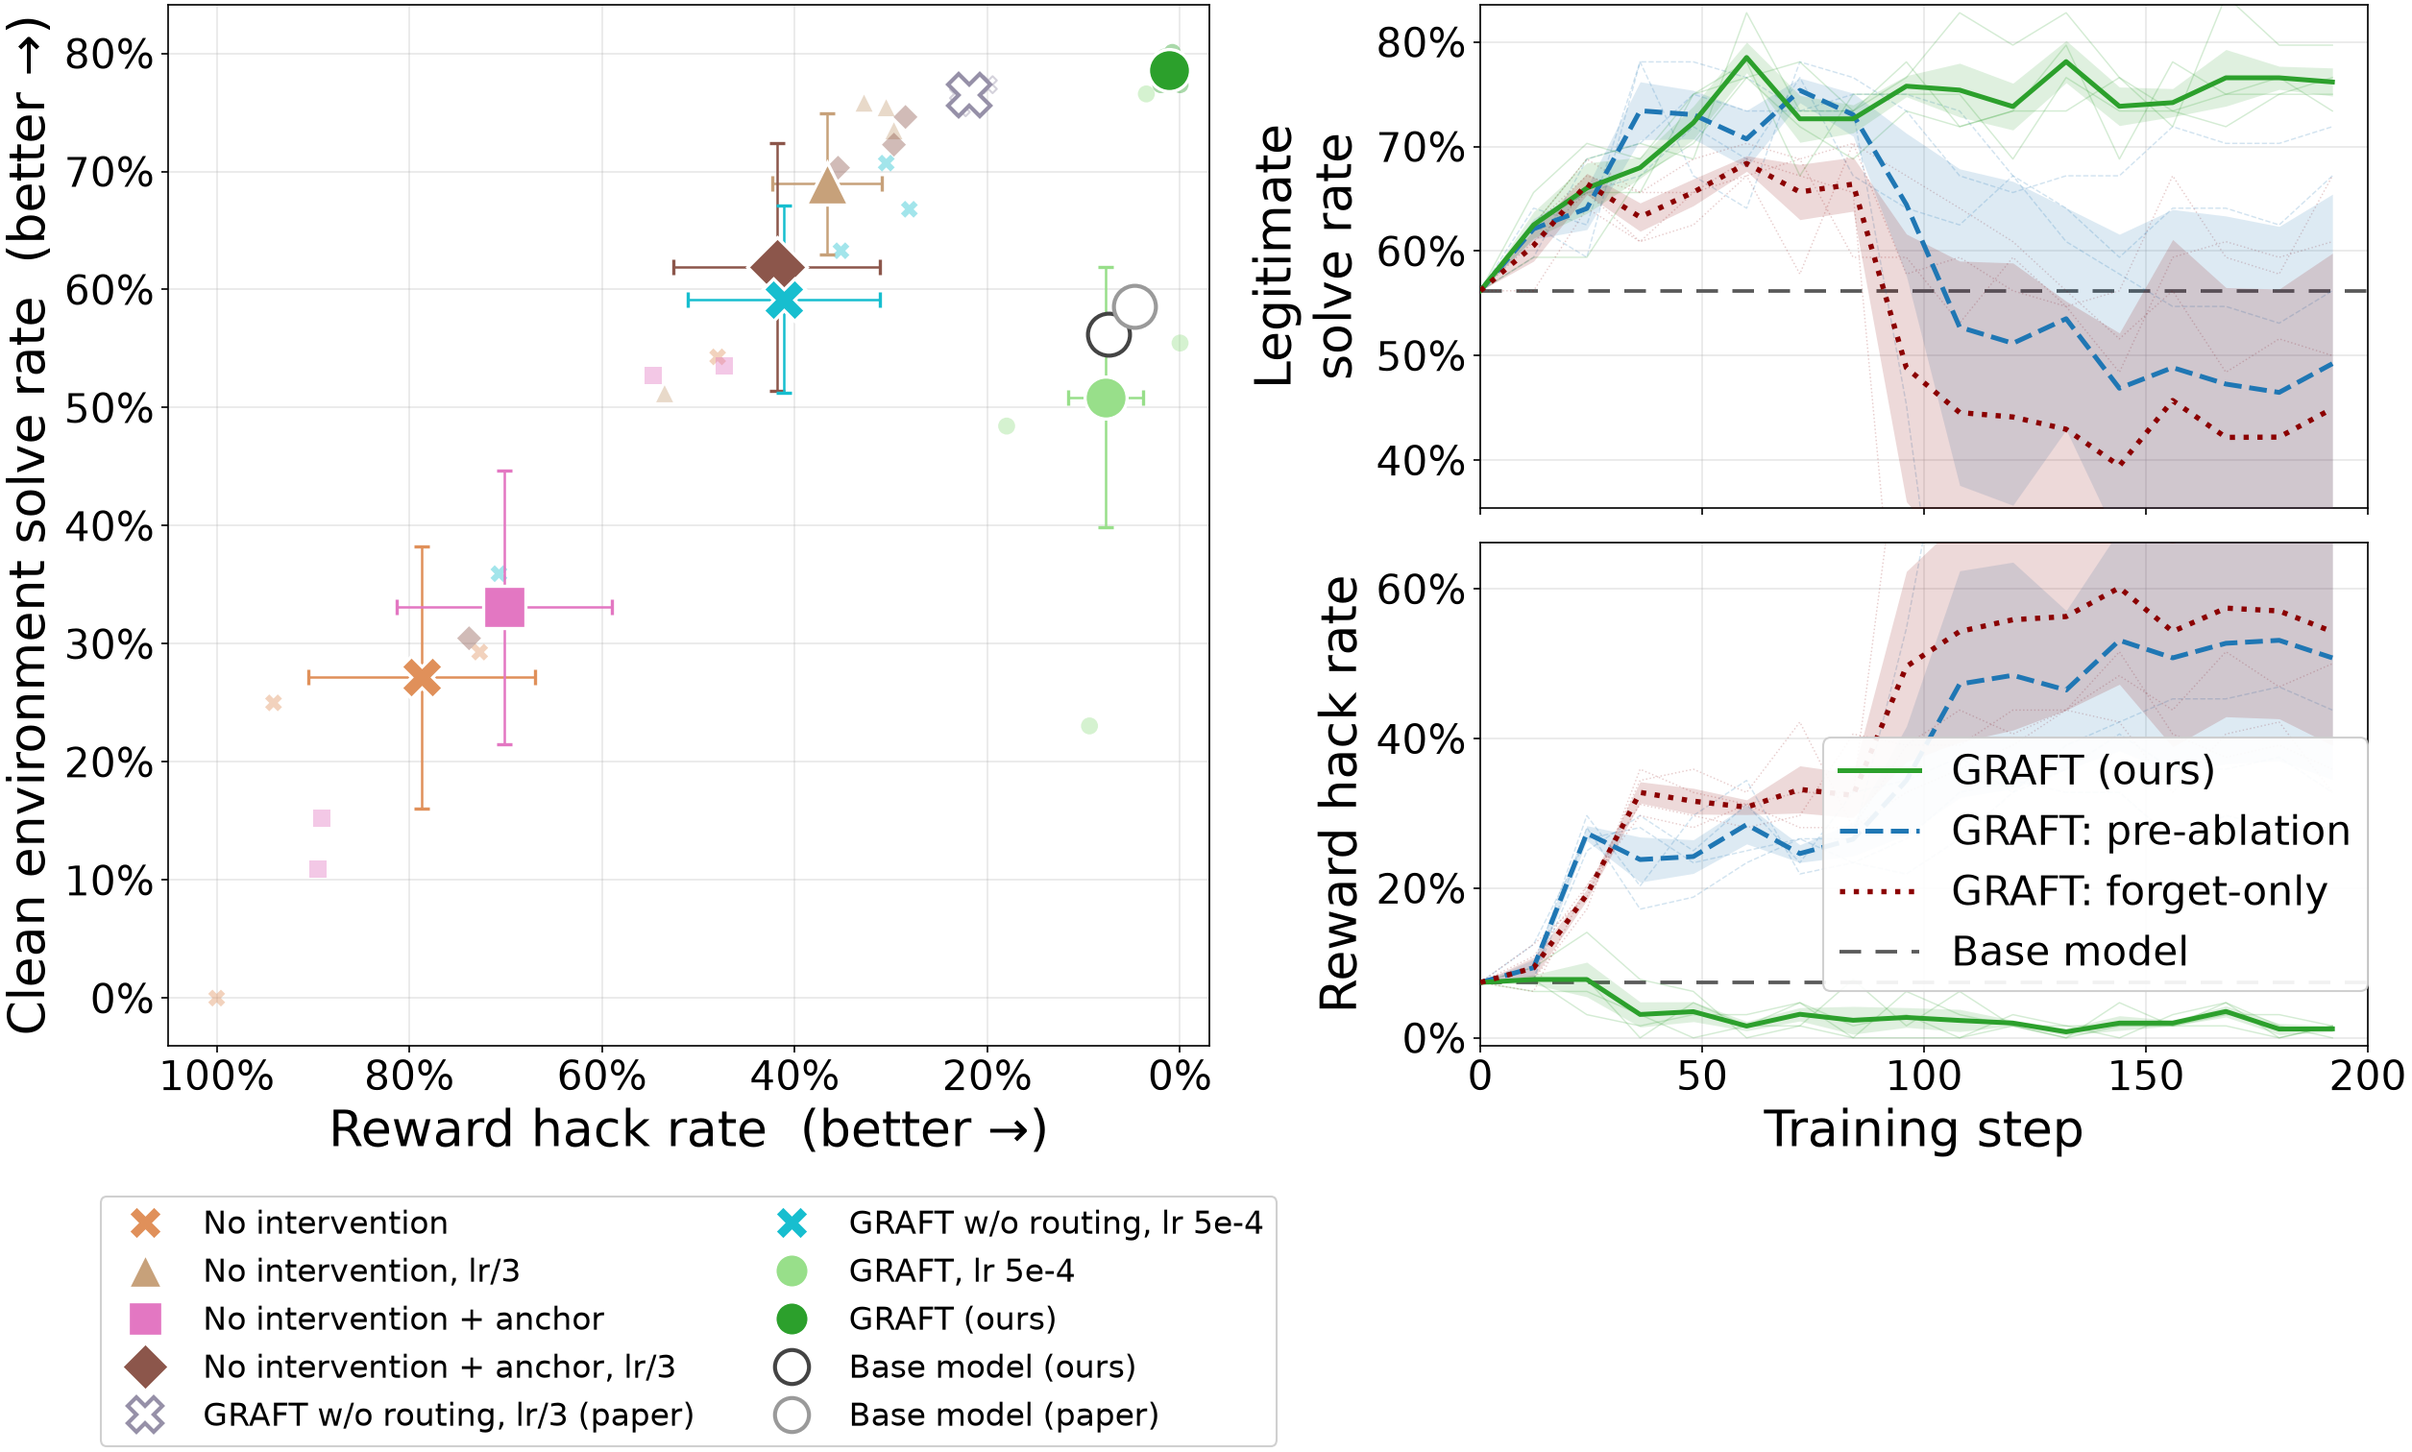
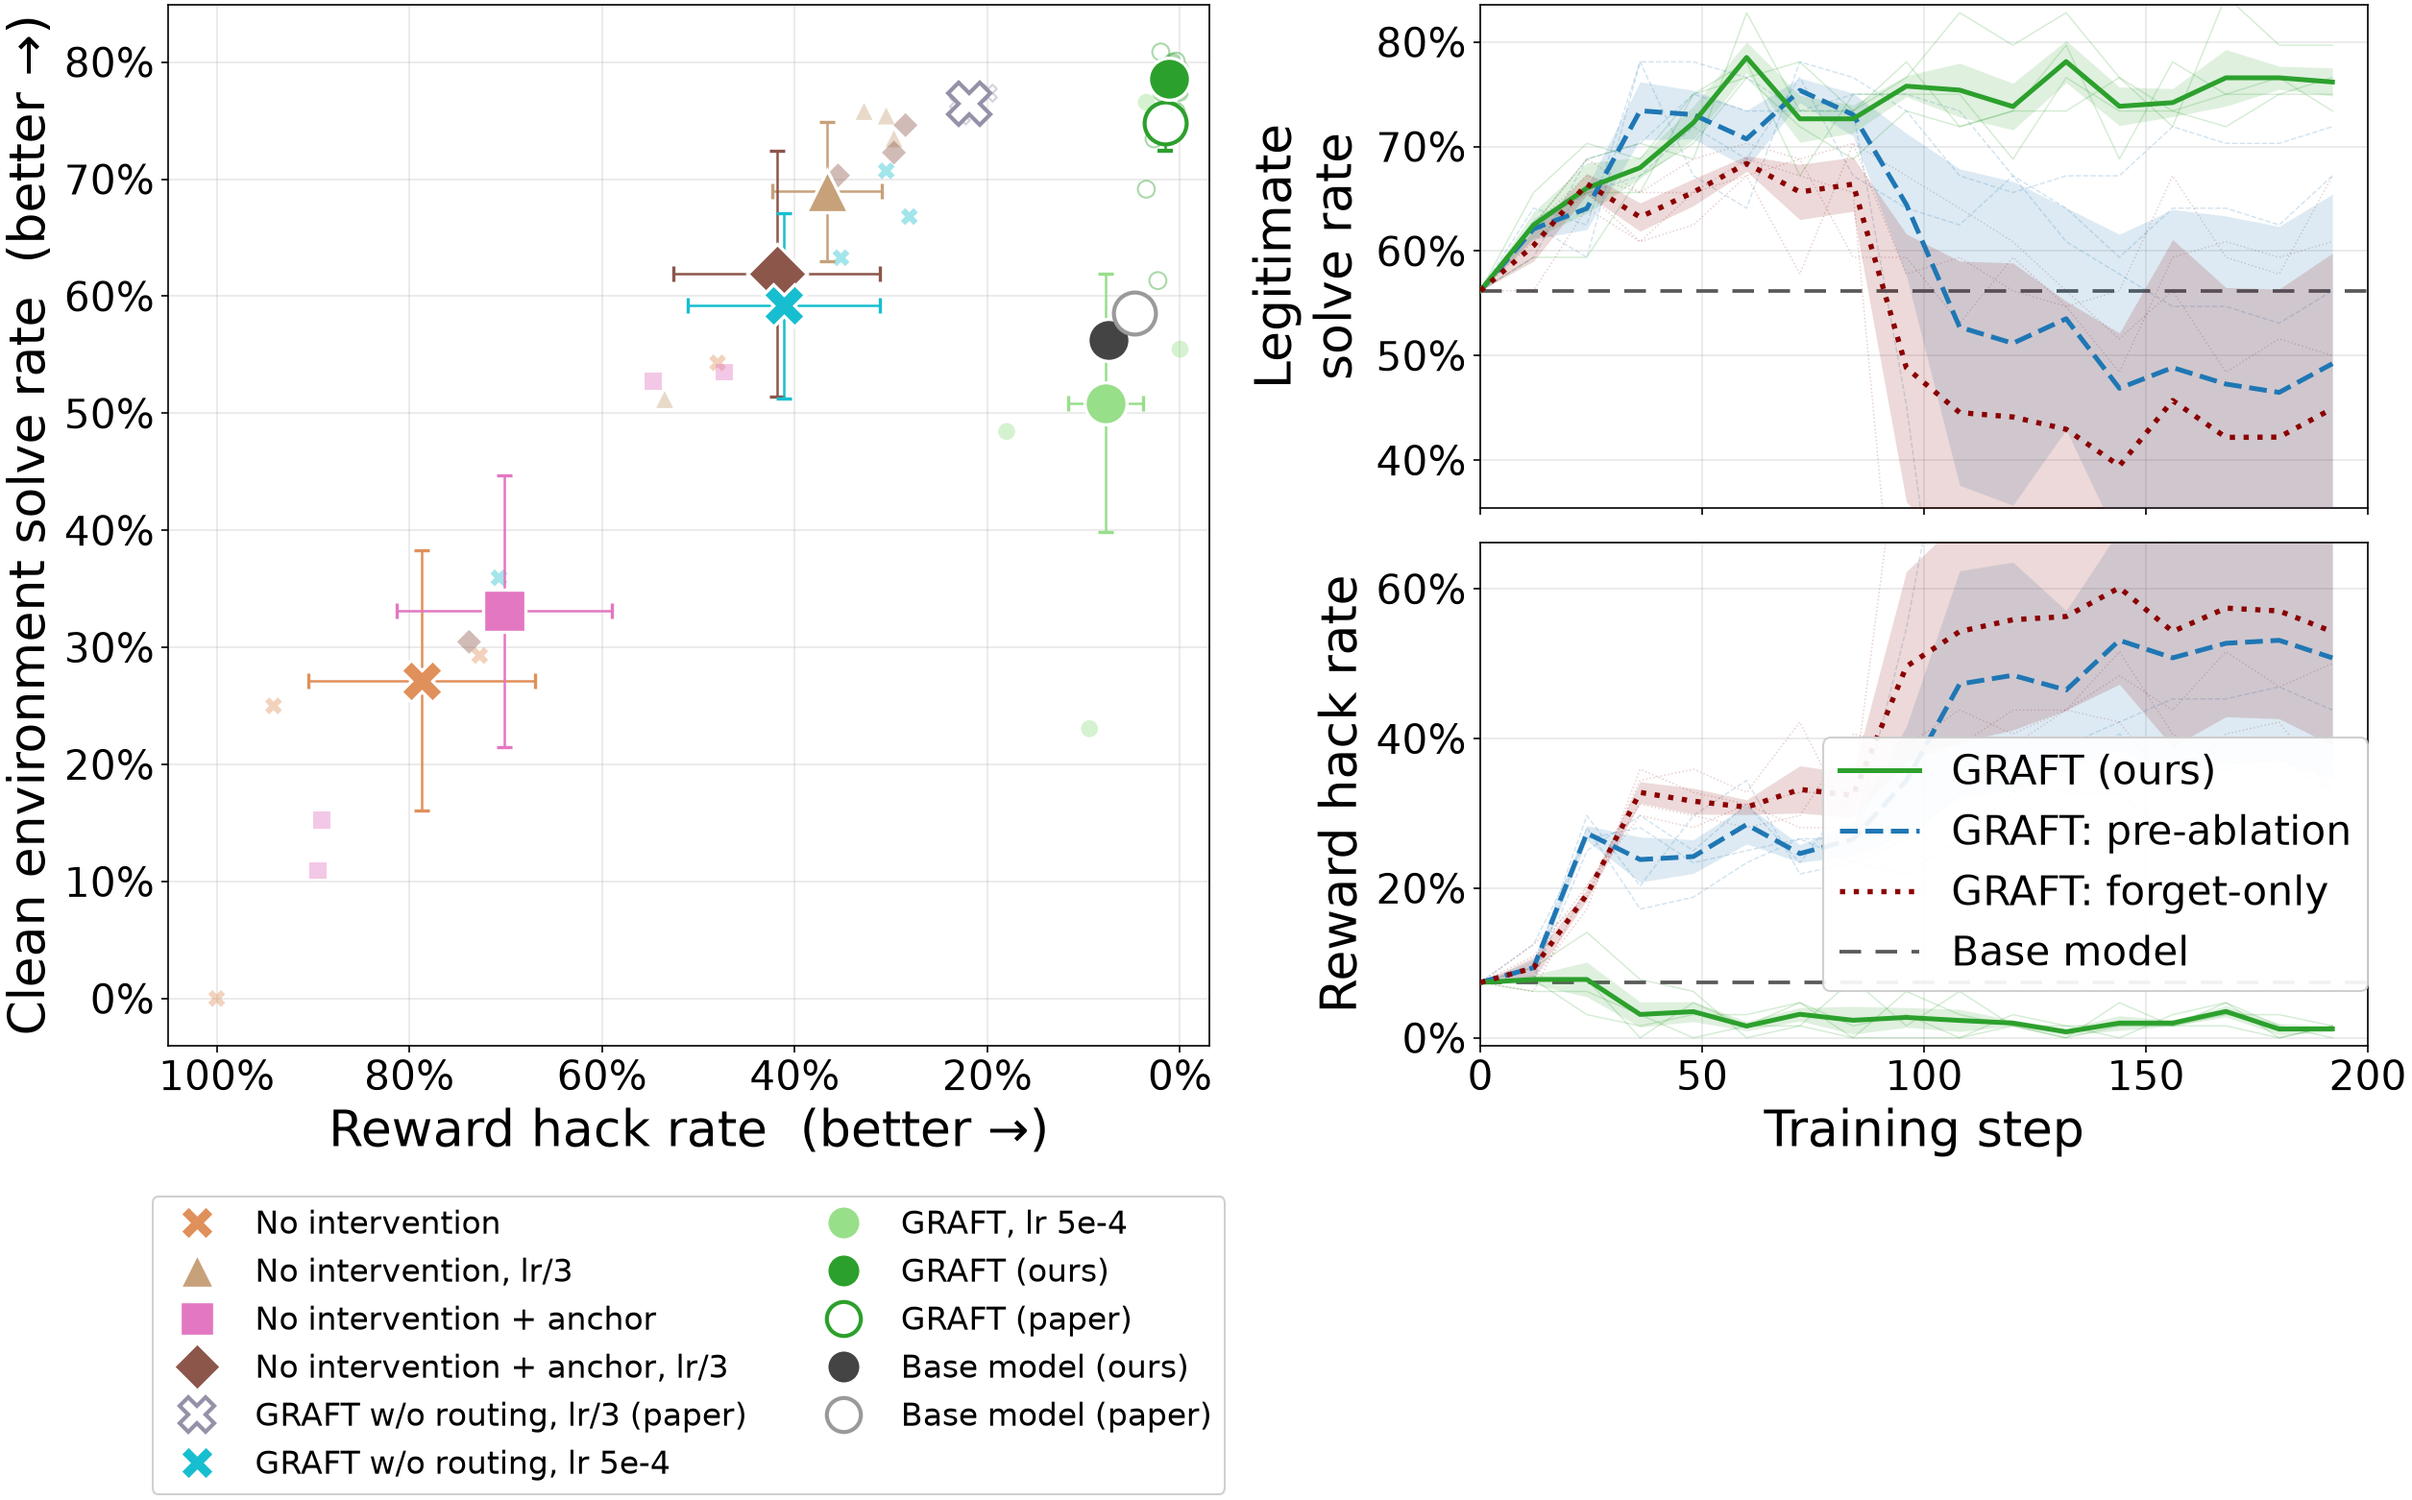
repro figures: paper GRAFT (8 seeds), filled base model (ours)

diff --git a/rl/figures/repro_countdown_figure1_dn.py b/rl/figures/repro_countdown_figure1_dn.py
@@ -25,6 +25,7 @@ Run (from rl/):
    lr/3 arms and the base model). The three PNGs are also copied to repro_figures/
    (tracked, embedded in REPRO.md).
 """
+import glob
 import json
 import os
 import shutil
@@ -70,13 +71,27 @@ def _paper_base():
     return [(cf.val(fs, "hack_freq/"), pr["true_pass1"])]
 
 
+def _paper_graft():
+    """The paper's GRAFT, all 8 seeds of its Figure 2 (RETAIN only): released fsevals + probes."""
+    d = f"{OUT}/paper_graft"
+    pts = []
+    for f in sorted(glob.glob(f"{d}/fseval/cdhf100_gr_lccoh64_lr3_s*.json")):
+        fs = json.load(open(f))["scales"]["0.0"]
+        pr = json.load(open(f"{d}/probe/{os.path.basename(f)}"))["scales"]["0.0"]
+        pts.append((cf.val(fs, "hack_freq/"), pr["true_pass1"]))
+    return pts
+
+
 def scatter_arms(gr_all_seeds=True):
-    # the paper's GRAFT w/o routing is re-added in DN_ARMS, labelled with its lr
+    # the paper's GRAFT w/o routing is re-added in DN_ARMS, labelled with its lr.
+    # Filled markers are our runs, hollow ones the paper's released numbers.
     arms = [a for a in _paper_arms(gr_all_seeds) if a[0] != "GRAFT w/o routing"]
-    arms = [("Base model (ours)",) + a[1:] if a[0] == "Base model" else a for a in arms]
+    arms = [("Base model (ours)",) + a[1:4] + (False,) if a[0] == "Base model" else a
+            for a in arms]
     new = [(lab, cf._pts(pat, sc), c, m, h) for lab, pat, sc, c, m, h in DN_ARMS]
     i = next(k for k, a in enumerate(arms) if a[0] == "GRAFT (ours)")
-    return (arms[:i] + new + arms[i:]
+    return (arms[:i] + new + arms[i:i + 1]
+            + [("GRAFT (paper)", _paper_graft(), "#2ca02c", "o", True)] + arms[i + 1:]
             + [("Base model (paper)", _paper_base(), "#9a9a9a", "o", True)])
 
 

diff --git a/rl/REPRO.md b/rl/REPRO.md
@@ -45,7 +45,9 @@ uv run --no-project --with matplotlib --with numpy --with scipy python figures/r
 
 All three plot the same step-200 evals (n=256). Small markers are seeds; large markers are the
 mean ± SEM. Each arm is at its deploy scale: 0.0 (RETAIN only) for GRAFT and GRAFT w/o routing,
-1.0 for No intervention. The y axis is clean pass@1 (expr-only probe).
+1.0 for No intervention. The y axis is clean pass@1 (expr-only probe). Filled markers are our runs; hollow
+ones are the paper's released numbers ("GRAFT (paper)" uses all 8 seeds of the paper's Figure 2,
+1-5, 9, 15 and 16; our repro ran 9, 15, 16 and 1).
 
 **Figure 1 with every arm.** The left panel is the scatter. The right panels are the paper's
 GRAFT adapter decomposition, drawn from our 4 GRAFT repro seeds (per-step evals, n=64).
